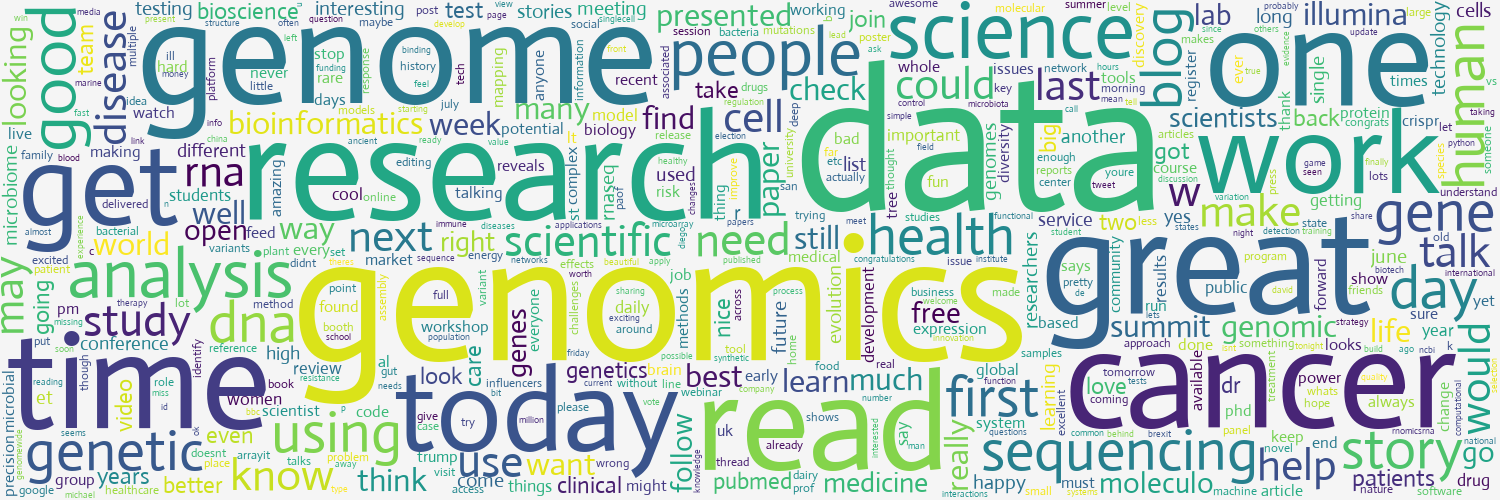
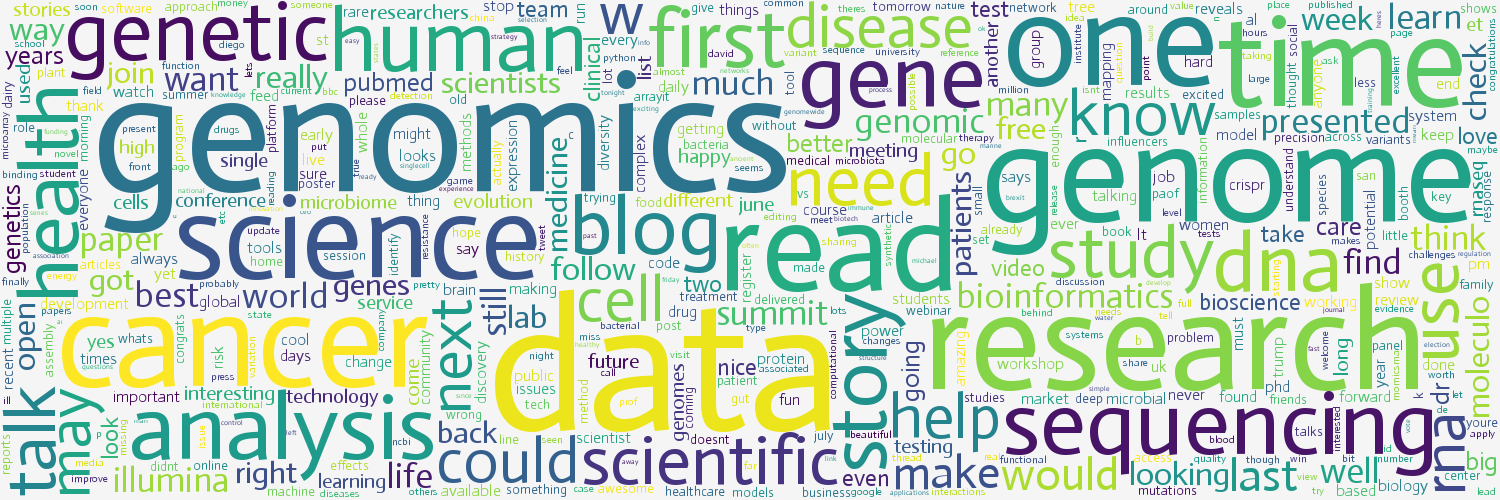
Update

diff --git a/main.py b/main.py
@@ -17,6 +17,7 @@ from collections import OrderedDict
 
 # Import non core modules
 from nltk.tokenize import word_tokenize
+from nltk import pos_tag
 from nltk.corpus import stopwords
 from nltk import FreqDist
 from wordcloud import WordCloud
@@ -53,10 +54,15 @@ for row in c.execute('SELECT * FROM tweetscapture ORDER BY Date DESC'):
         tweetID = row[3]
         tweetText = tweet_clean(row[4].lower())
         stopWords = list(stopwords.words("english"))
-        myStopWords = ['also', 'cant', 'dont', 'hear', 'here', 'ive', 'im', 'like', 'latest', 'new', 'news', 'oh',
-                       'see', 'top', 'th', 'twitter', 'thats', 'thanks', 'us', 'x']
+        myStopWords = ['also', 'bad', 'cant', 'dont', 'day', 'great', 'get', 'good', 'hear', 'here', 'ive', 'im', 'like', 'latest', 'new', 'news', 'oh',
+                       'people', 'see', 'today', 'top', 'th', 'twitter', 'thats', 'thanks', 'us', 'using', 'work', 'x']
         stopWords = stopWords + myStopWords
         words = word_tokenize(tweetText)
+        tagged = pos_tag(words)
+        # words = []
+        # for tup in tagged:
+        #     if 'V' not in tup[1]:
+        #         words.append(tup[0])
         filteredSentence = [w for w in words if w not in stopWords]
         filteredText += filteredSentence
         hashMatch = re.findall('#\w+', row[4].lower())
